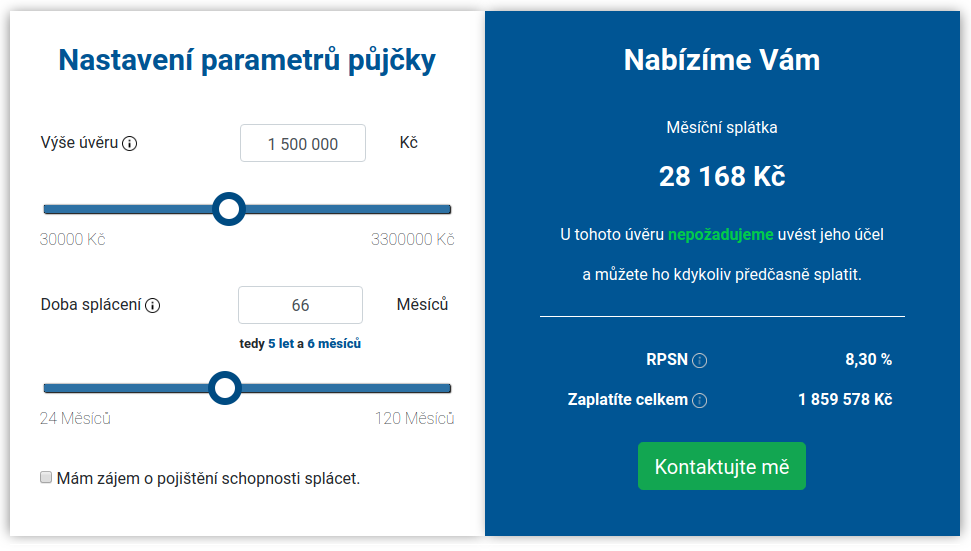
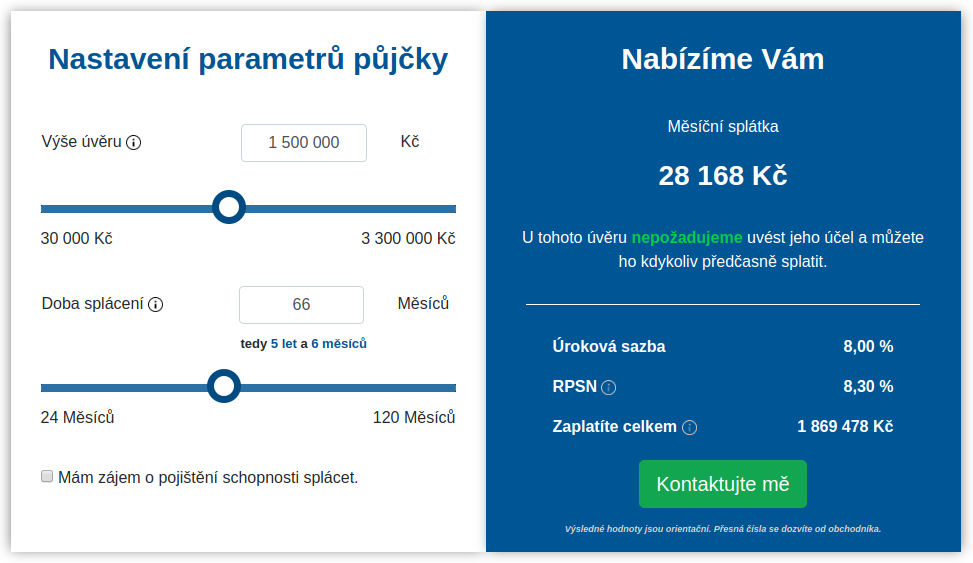
Nový promopic, opraveny eventy v polích výše úveru a doba splácení, do README přidán odkaz na mock POST server.

diff --git a/src/app/komponenty/dialog/dialog.component.ts b/src/app/komponenty/dialog/dialog.component.ts
@@ -1,7 +1,6 @@
 import { Component, Inject } from '@angular/core';
 import {MatDialogRef, MAT_DIALOG_DATA} from '@angular/material';
 import { KonfiguraceService } from '../../services/konfigurace.service';
-import { OknoService } from '../../services/okno.service';
 
 export interface DialogData {
   status: string
@@ -33,8 +32,7 @@ export class DialogOverviewExampleDialog{
   constructor(
     public dialogRef: MatDialogRef<DialogOverviewExampleDialog>,
     @Inject(MAT_DIALOG_DATA) public data: DialogData,
-    private konfigurace: KonfiguraceService,
-    private oknoServisa: OknoService) {
+    private konfigurace: KonfiguraceService) {
 
     this.kontakt = this.konfigurace.kontaktHelpdesk;
   }

diff --git a/src/app/app.component.ts b/src/app/app.component.ts
@@ -75,10 +75,10 @@ export class AppComponent{
               private oknoServisa: OknoService) {
 
     //Mock server vrací úrokovou míru per anum
-   // this.gateway.getDemoPetrEndPoint({}).subscribe((data) => {
-   //   this._urokovaMira = data.interestRate;
-   //  });
-     this._urokovaMira = 0.08;
+   this.gateway.getDemoPetrEndPoint({}).subscribe((data) => {
+     this._urokovaMira = data.interestRate;
+    });
+     //this._urokovaMira = 0.08;
 
     this.poplatkyVyrizeni = konfigurace.poplatek;
 

diff --git a/src/app/komponenty/vyse-uveru/vyse-uveru.component.ts b/src/app/komponenty/vyse-uveru/vyse-uveru.component.ts
@@ -22,7 +22,8 @@ import { KonfiguraceService } from '../../services/konfigurace.service';
                    pattern="[0-9]*"
                [value]="this.numberToString(this.vyseUveru)"
                (input)="onInputEvent($event)"
-               (change)="onChangeEvent($event)">
+               (change)="onChangeEvent($event)" 
+               (blur)="onChangeEvent($event)">
           </td>
           <td class="tableJednotka">
             <p> {{jednotek}}</p>

diff --git a/src/app/komponenty/doba-splaceni/doba-splaceni.component.ts b/src/app/komponenty/doba-splaceni/doba-splaceni.component.ts
@@ -23,6 +23,7 @@ import { formatujCislo } from '../../shared/formaty';
                     pattern="[0-9]*"
                [value]="numberToString(this.dobaSplaceni)"
                (change)="fireEvent($event)" 
+               (blur)="fireEvent($event)"
                (input)="onInputEvent($event)">
             </td>
             <td class="tableJednotka">

diff --git a/README.md b/README.md
@@ -21,6 +21,17 @@ mkdir api_code_generator
 ```
 * do této složky rozbal obsah [zipu](https://drive.google.com/drive/folders/1eGnRHV7FwzU6C6XqZkEYgUcT7lAFdLIy).
 
+* vytvoř složku bankovni_server
+```
+mkdir bankovni_server
+```
+* do této složky rozbal obsah [zipu](https://drive.google.com/file/d/1c_RWQvoZanvMAvI2HrbwX6NzZZkI5GV6/view).
+
+* na příkazové řádce ve složce **bankovni_server** spusť a nech běžet:
+```
+npm start
+```
+
 * na příkazové řádce v této složce napiš
 ```
 git clone https://github.com/PetrNovak96/TrasKalkulacka
